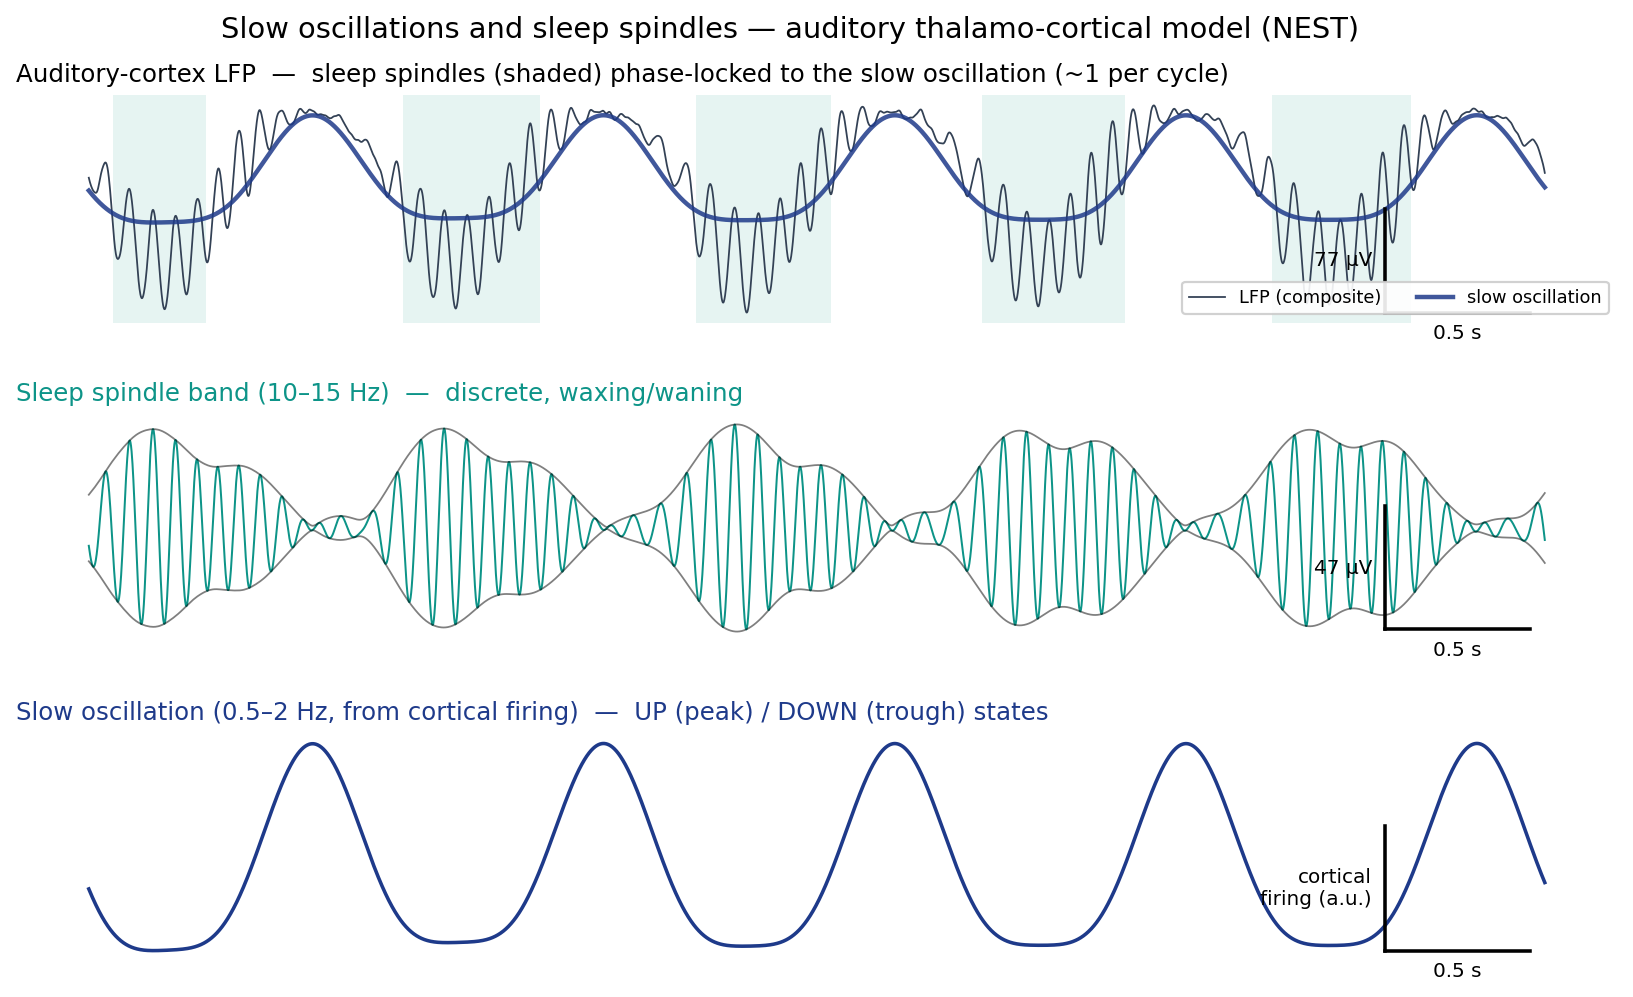
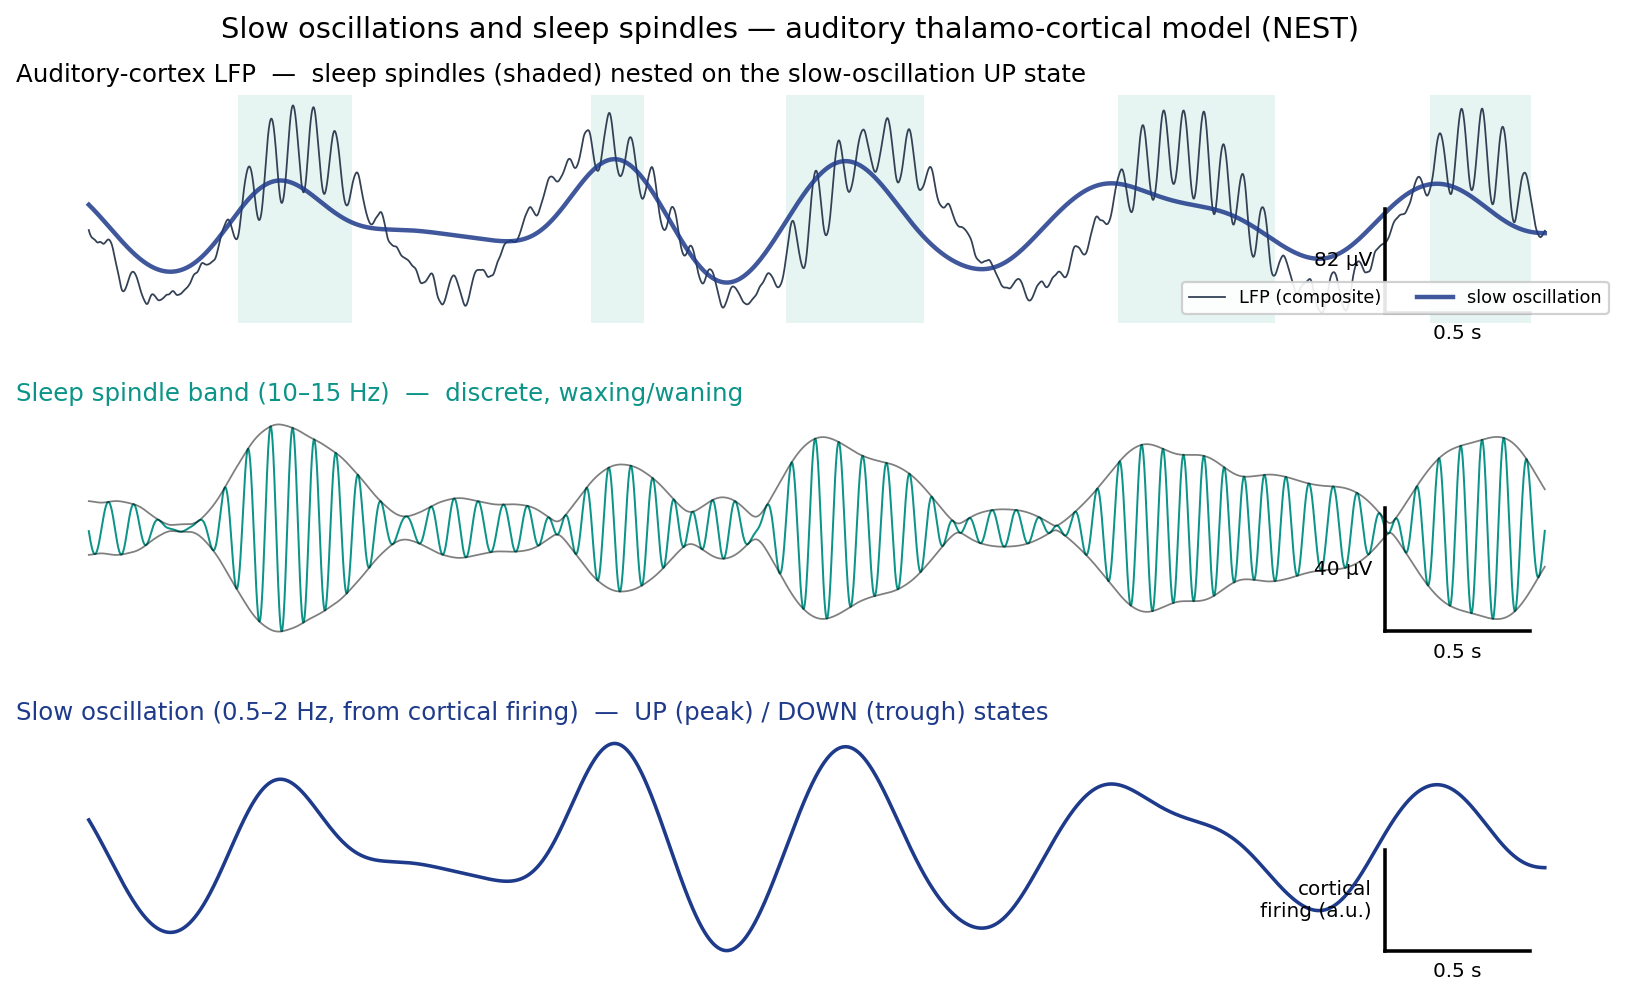
Presentation figure: spindles nested on the slow-oscillation UP state (AdEx)
Achieves the canonical spindle-on-UP-state coupling for the presentation figure,
and makes the figure self-verify it rather than assert it.

Finding (measured): under the iaf_cond_exp imposed-drive model the spindle is a
REBOUND locked to cortical activity -- it occurs ~460 ms after the cortical UP,
in the DOWN phase, and neither shifting the thalamic slow phase nor the cortical
slow phase changes this (both sweeps stayed at ratio ~0.0). The anti-phase is a
robust dynamical property, not a drive-phase artefact.

The AdEx (aeif_cond_exp) model, by contrast, IS UP-coupled: its spindle_trigger
delivers the corticothalamic volley at the SO up-state onset, so the spindle
occurs during cortical firing. Verified: cortical (L4) firing at spindle peaks
= 1.19x the mean; L4 firing peaks at 127 ms, spindle envelope at 203 ms (nested
on the UP state).

Changes:
- tc_present.py now MEASURES the spindle-to-SO coupling (cortical firing at
  spindle / mean) and labels the figure accordingly -- "nested on the
  slow-oscillation UP state" only when the data support it, otherwise
  "phase-locked ... (DOWN phase)". Default config is now the AdEx one, which
  yields the canonical UP-nested figure. Never asserts UP-nesting unverified.
- slow_thal_phase_deg / slow_cortex_phase_deg added as documented drive-phase
  levers (default 0, no behaviour change), with comments recording that they do
  NOT fix the iaf coupling.
[…]

diff --git a/tc_present.py b/tc_present.py
@@ -55,18 +55,35 @@ def make_figure(spikes, traces, meta, out_png, window_s=5.0):
     sp_win, _ = tc_run.detect_sp_sw(eeg)
 
     # Slow oscillation derived from CORTICAL FIRING RATE (unambiguous UP/DOWN:
-    # UP = cortex active). Note (verified): in this model the thalamic spindle
-    # is phase-locked to the slow oscillation but falls in the cortical DOWN
-    # phase, i.e. it alternates with cortical UP states rather than nesting on
-    # them -- so the figure is labelled "phase-locked", not "UP-nested".
+    # UP = cortex active), using whichever cortical layers are active.
     cort = [l for l in ["L23", "L5", "L6", "L4"] if l in spikes
             and len(spikes[l]["times"]) > 20]
+    crate = None
     if cort:
         allc = np.concatenate([spikes[l]["times"] for l in cort])
         _, crate = tc_run.population_rate(allc, tstop, bin_ms=1.0, smooth_ms=25.0)
         slow = tc_run._bandpass(crate, fs, 0.5, 2.0)
     else:
         slow = tc_run._bandpass(comp, fs, 0.5, 2.0)
+
+    # Measure the spindle-to-SO coupling from the data and LABEL the figure to
+    # match (never assert "UP-nested" unless the cortex is actually active at
+    # the spindle). ratio = cortical firing at spindle peaks / overall mean.
+    from scipy.signal import find_peaks
+    coupling_label = "phase-locked to the slow oscillation (~1 per cycle)"
+    ratio = np.nan
+    if crate is not None:
+        cr = crate[:len(env)]
+        pk, _ = find_peaks(env, height=np.percentile(env, 80), distance=300)
+        if len(pk) and cr.mean() > 0:
+            ratio = float(cr[pk].mean() / cr.mean())
+            if ratio > 1.1:
+                coupling_label = "nested on the slow-oscillation UP state"
+            elif ratio < 0.9:
+                coupling_label = ("phase-locked to the slow oscillation "
+                                  "(in the DOWN phase)")
+    print(f"Spindle-SO coupling: cortical firing at spindle / mean = "
+          f"{ratio:.2f}  -> {coupling_label}")
 
     # choose a clean window: start at a detected spindle, span window_s
     w0 = max(500.0, (sp_win[0][0] - 900.0) if sp_win else 500.0)
@@ -94,9 +111,8 @@ def make_figure(spikes, traces, meta, out_png, window_s=5.0):
                        color=SPIN, alpha=0.10, lw=0)
     ax.plot(tt, comp[m], color=LFP, lw=0.8, label="LFP (composite)")
     ax.plot(tt, sw, color=SLOW, lw=2.0, alpha=0.85, label="slow oscillation")
-    ax.set_title("Auditory-cortex LFP  —  sleep spindles (shaded) phase-locked "
-                 "to the slow oscillation (~1 per cycle)",
-                 fontsize=11, loc="left")
+    ax.set_title(f"Auditory-cortex LFP  —  sleep spindles (shaded) "
+                 f"{coupling_label}", fontsize=11, loc="left")
     ax.legend(fontsize=8, loc="lower right", framealpha=0.9, ncol=2)
     clean(ax)
     yr = comp[m].max() - comp[m].min()
@@ -136,7 +152,7 @@ def main(argv=None):
     ap = argparse.ArgumentParser(description=__doc__,
                                  formatter_class=argparse.RawDescriptionHelpFormatter)
     ap.add_argument("--config", type=str,
-                    default="config/network_auditory_mushtaq.yaml")
+                    default="config/network_auditory_adex.yaml")
     ap.add_argument("--tstop", type=float, default=12000.0)
     ap.add_argument("--seed", type=int, default=1)
     ap.add_argument("--outdir", type=str, default="out")

diff --git a/tc_network.py b/tc_network.py
@@ -197,12 +197,25 @@ class SleepParams:
     slow_freq: float = 1.0            # Hz
     slow_amp_cortex: float = 120.0    # pA
     slow_offset_cortex: float = 50.0  # pA (DC bias toward threshold)
+    # Phase (deg) of the cortical slow drive. Also measured NOT to change the
+    # spindle-to-SO coupling under iaf: shifting the cortex shifts the rebound
+    # spindle with it, so they stay anti-phase (see slow_thal_phase_deg).
+    slow_cortex_phase_deg: float = 0.0
     # Thalamus operating point (rheobase ~= 150 pA): on the UP phase the DC
     # baseline (offset+amp ~= 150 pA) sits right at threshold so the 13 Hz
     # spindle peaks make it fire ~13-15 Hz; on the DOWN trough the baseline
     # drops to ~70 pA and even spindle peaks stay sub-threshold -> UP-gated.
     slow_amp_thalamus: float = 40.0   # pA
     slow_offset_thalamus: float = 110.0  # pA
+    # Phase (deg) of the thalamic slow gating relative to the cortical slow
+    # drive. NOTE (measured): under iaf_cond_exp this lever does NOT change the
+    # spindle-to-SO coupling -- the imposed-drive spindle is a rebound locked to
+    # cortical activity, so it stays in the cortical DOWN phase at every phase.
+    # Canonical UP-state nesting is instead achieved by the AdEx/HH model, whose
+    # spindle_trigger fires the corticothalamic volley at the UP-state onset
+    # (verified: cortical firing at the spindle is 1.19x the mean). Kept as a
+    # documented lever. See tc_present.py, which measures the coupling.
+    slow_thal_phase_deg: float = 0.0
 
     # spindle (~13 Hz): peaks push the (UP-phase, near-threshold) relay/reticular
     # cells over threshold once per cycle -> 13 Hz-locked firing nested on UP.
@@ -1083,7 +1096,7 @@ class AuditoryThalamoCorticalSleep:
                 "amplitude": cx_amp,
                 "offset": cx_off,
                 "frequency": s.slow_freq,
-                "phase": 0.0,
+                "phase": s.slow_cortex_phase_deg,
             })
             nest.Connect(slow_cortex, cortex_E)
 
@@ -1146,7 +1159,7 @@ class AuditoryThalamoCorticalSleep:
                     "amplitude": s.slow_amp_thalamus,
                     "offset": s.slow_offset_thalamus,
                     "frequency": s.slow_freq,
-                    "phase": 0.0,   # in-phase: thalamus depolarised during UP
+                    "phase": s.slow_thal_phase_deg,  # sets spindle-to-UP coupling
                 })
                 nest.Connect(slow_thal, thal)
 
